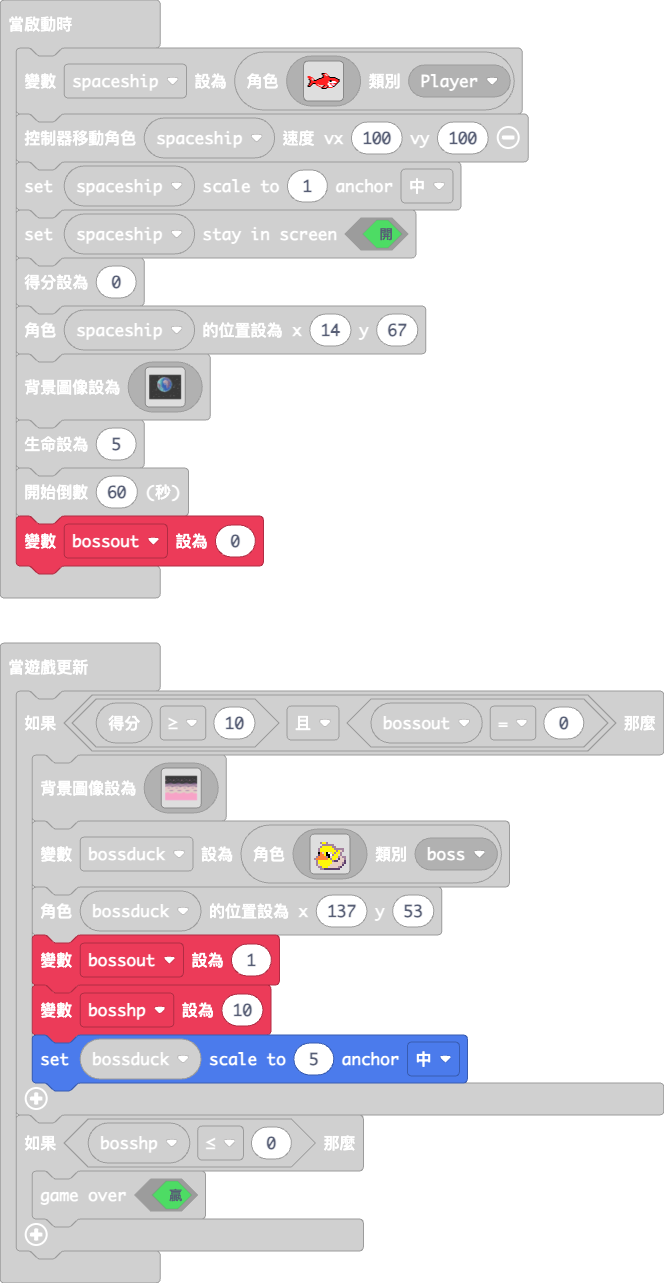
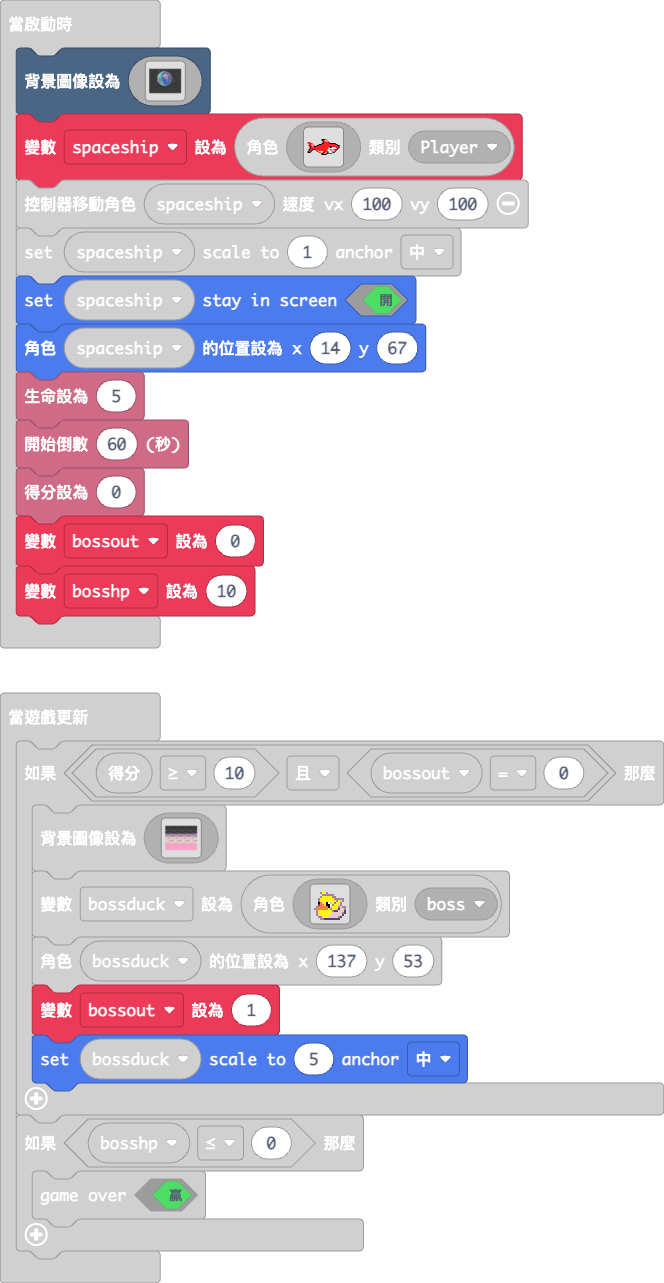
更新 pxt.json, main.blocks, main.ts

diff --git a/main.ts b/main.ts
@@ -46,32 +46,8 @@ sprites.onOverlap(SpriteKind.Player, SpriteKind.bossweapon, function (sprite, ot
 let haha: Sprite = null
 let trash: Sprite = null
 let bossduck: Sprite = null
-let bosshp = 0
 let projectile: Sprite = null
 let spaceship: Sprite = null
-spaceship = sprites.create(img`
-    ..............fff22.............
-    ..............f22dd2............
-    ...............f22dd2...........
-    222............f22222f..........
-    22222.........ff222222ffffff....
-    .222d2.....fff22222222222222ff..
-    .f22dd2..ff2222222222222222222ff
-    ..f22dfff2222222222222ff2222222f
-    ..f2222222222222222221ff1111222f
-    ..f222222222222222222111111112f.
-    .f222fff222222222222112233222f..
-    .f22f...22d22222222211121312f...
-    f22f.....22dddddf2222111233f....
-    fff........22ddf22d2f1111ff.....
-    .............2f22d2f22222.......
-    ..............fffff.............
-    `, SpriteKind.Player)
-controller.moveSprite(spaceship, 100, 100)
-spaceship.setScale(1, ScaleAnchor.Middle)
-spaceship.setStayInScreen(true)
-info.setScore(0)
-spaceship.setPosition(14, 67)
 scene.setBackgroundImage(img`
     ffffffffffffffffffffffffffffffffffffffffffffffffffffffffffffffffffffffffffffffffffffffffffffffffffffffffffffffffffffffffffffffffffffffffffffffffffffffffffffffff
     ffffffffffffffffffffffffffffffffffffffffffffffffffffffffffffffffffffffffffffffffffffffffffffffffffffffffffffffffffffffffffffffffffffffffffffffffffffffffffffffff
@@ -194,9 +170,33 @@ scene.setBackgroundImage(img`
     ffffffffffffffffffffffffffffffffffffffffffffffffffffffffffffffffffffffffffffffffffffffffffffffffffffffffffffffffffffffffffffffffffffffffffffffffffffffffffffffff
     ffffffffffffffffffffffffffffffffffffffffffffffffffffffffffffffffffffffffffffffffffffffffffffffffffffffffffffffffffffffffffffffffffffffffffffffffffffffffffffffff
     `)
+spaceship = sprites.create(img`
+    ..............fff22.............
+    ..............f22dd2............
+    ...............f22dd2...........
+    222............f22222f..........
+    22222.........ff222222ffffff....
+    .222d2.....fff22222222222222ff..
+    .f22dd2..ff2222222222222222222ff
+    ..f22dfff2222222222222ff2222222f
+    ..f2222222222222222221ff1111222f
+    ..f222222222222222222111111112f.
+    .f222fff222222222222112233222f..
+    .f22f...22d22222222211121312f...
+    f22f.....22dddddf2222111233f....
+    fff........22ddf22d2f1111ff.....
+    .............2f22d2f22222.......
+    ..............fffff.............
+    `, SpriteKind.Player)
+controller.moveSprite(spaceship, 100, 100)
+spaceship.setScale(1, ScaleAnchor.Middle)
+spaceship.setStayInScreen(true)
+spaceship.setPosition(14, 67)
 info.setLife(5)
 info.startCountdown(60)
+info.setScore(0)
 let bossout = 0
+let bosshp = 10
 game.onUpdate(function () {
     if (info.score() >= 10 && bossout == 0) {
         scene.setBackgroundImage(img`
@@ -341,7 +341,6 @@ game.onUpdate(function () {
             `, SpriteKind.boss)
         bossduck.setPosition(137, 53)
         bossout = 1
-        bosshp = 10
         bossduck.setScale(5, ScaleAnchor.Middle)
     }
     if (bosshp <= 0) {
